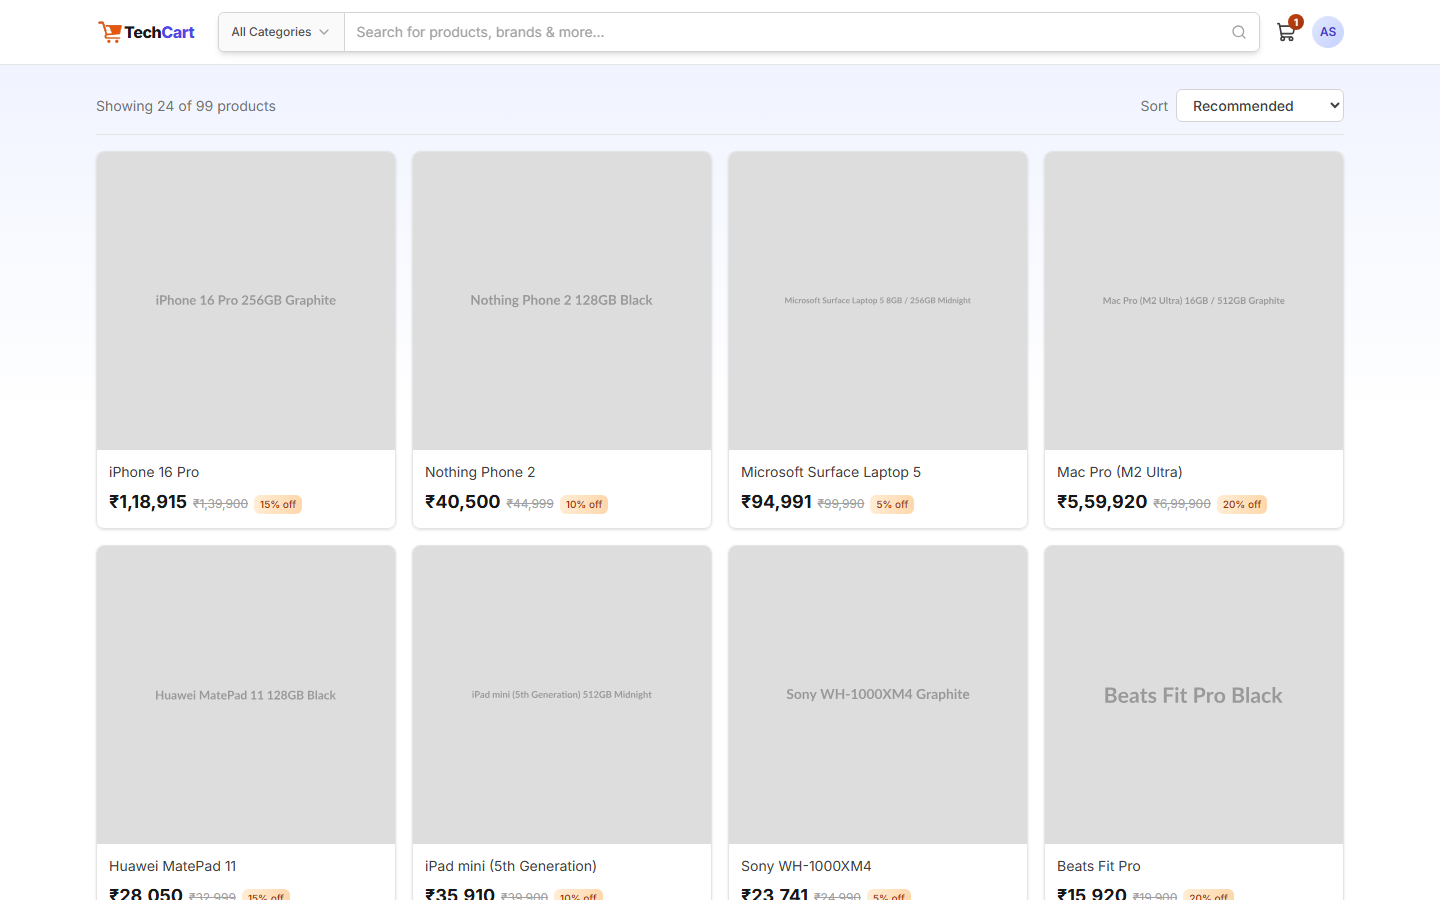
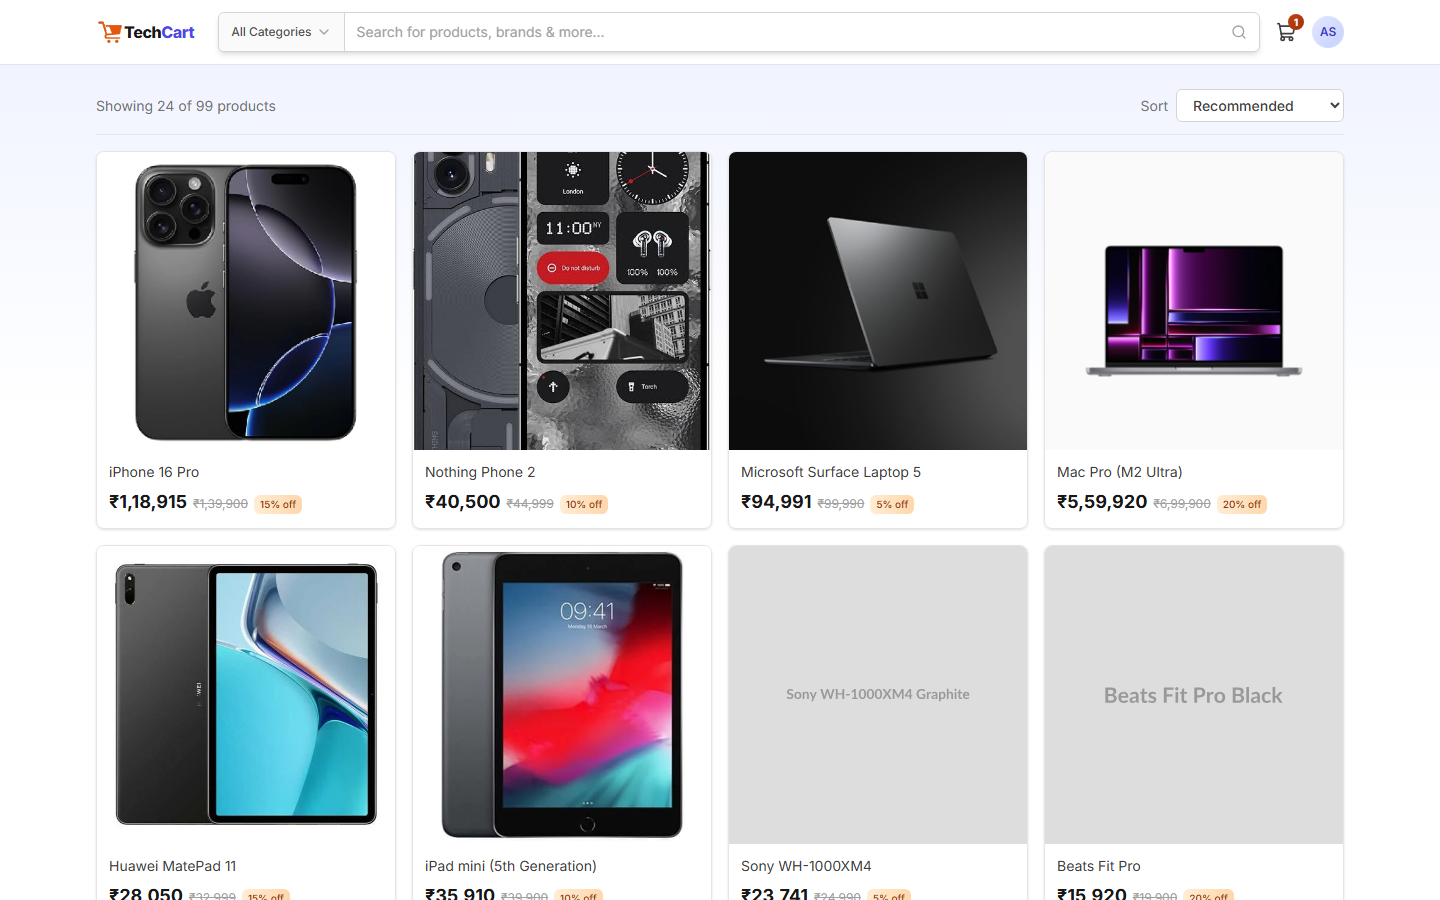
docs: recapture buyer-app manual screenshots from the live site
The buyer-app screenshots now come from https://tech-cart-buyer-app.vercel.app,
whose backend serves real R2-hosted product images and real spec data instead of
the local dataset's grey placeholders. Adds 12-specifications-accordion.png (the
PDP specs section, absent locally) back into buyer-app.md.

capture.mjs's buyer phase gains BUYER_URL / PRODUCT_SLUG / BUYER_STORAGE (a
session cache to avoid the production sign-in rate limit), a waitForListing()
helper for live latency, element-clipped shots for the variant selector and
specs accordion, and a stricter order-cleanup guard (matches the fixed test
shipping name + product + a list-row status, never a real order).

Admin-app screenshots are unchanged. Both READMEs note buyer = live / admin = local.

diff --git a/docs/user-manuals/screenshots/README.md b/docs/user-manuals/screenshots/README.md
@@ -2,17 +2,48 @@
 
 The screenshots embedded in [`../buyer-app.md`](../buyer-app.md) and
 [`../admin-app.md`](../admin-app.md) are produced by [`capture.mjs`](capture.mjs) — a
-Playwright script that drives a real Chromium against locally-running instances of all
-three services and walks every documented screen.
+Playwright script that drives a real Chromium and walks every documented screen.
+
+- The **`buyer`** phase is captured against the **deployed storefront**
+  (`https://tech-cart-buyer-app.vercel.app`) so the screenshots show the real
+  catalogue and real product images. It needs no local server.
+- The **`admin`**, **`catalog-manager`**, and **`create-flows`** phases run against a
+  **local** backend + admin-app dev server (no live admin credentials).
 
 Most screens are captured against **existing data**. The admin manual's "How to add a
 brand / category / specification / variant / product / warehouse / stock" sections
 are backed by the `create-flows` phase, which fills each create form and screenshots
 it. The script never runs a `seed:*` script.
 
-## Prerequisites
+## Prerequisites (all phases)
 
 - Node 24 (repo `.nvmrc`)
+- `@playwright/test` installed (root `devDependency`) and its browser:
+  ```
+  npm install
+  npx playwright install chromium
+  ```
+
+## Buyer phase — from the live site
+
+No local setup. Sign-in OTP codes are fixed to `123456` in every environment
+(`backend/src/lib/otp.ts`), so no real inbox is needed.
+
+```
+BUYER_URL=https://tech-cart-buyer-app.vercel.app \
+BUYER_EMAIL=buyer1@example.com \
+PRODUCT_SLUG=iphone-15 \
+node docs/user-manuals/screenshots/capture.mjs --phase=buyer
+```
+
+`PRODUCT_SLUG` must be a published product with an in-stock active variant. The phase
+signs in once, adds one item to the cart and places one order to capture the
+cart/checkout/payment/orders screens, then **cancels that order and empties the cart**
+in a cleanup step. Production rate-limits sign-in (~5 / 15 min) — aim for a single
+clean run; if a re-run 429s, wait it out.
+
+## Admin phases — prerequisites
+
 - A local MongoDB with a populated TechCart database — catalogue, at least a few
   orders, warehouses, and inventory rows. The standard local dev dataset
   (`npm run seed:all --workspace backend`) covers this.
@@ -20,13 +51,8 @@ it. The script never runs a `seed:*` script.
   catalog-manager dashboard shot — a `catalog-manager` account. `npm run seed:users`
   creates `catalog-manager@example.com` / `order-manager@example.com` with password
   `TechCart@Dev123`; `npm run seed:super-admin` creates the env-driven super-admin.
-- `@playwright/test` installed (root `devDependency`) and its browser:
-  ```
-  npm install
-  npx playwright install chromium
-  ```
 
-## 1. Point the frontends at a local backend (temporary)
+### 1. Point the frontends at a local backend (temporary)
 
 All `.env*` files are gitignored. Back them up first, then set:
 
@@ -34,51 +60,46 @@ All `.env*` files are gitignored. Back them up first, then set:
 | ---------------------- | ------------------------------------------------------- |
 | `backend/.env`         | `MONGODB_URI` → your local MongoDB                      |
 | `backend/.env`         | `RATE_LIMITING_ENABLED=false` (repeated sign-ins)       |
-| `buyer-app/.env.local` | `NEXT_PUBLIC_API_URL=http://localhost:4000`             |
 | `admin-app/.env.local` | `VITE_API_URL=http://localhost:4000` (create this file) |
 
 `backend/.env` must still carry valid `R2_*`, `RAZORPAY_*`, `GOOGLE_CLIENT_*`,
-`JWT_SECRET`, and `APP_BASE_URL` values — the backend validates them at startup. Sign-in
-OTP codes are fixed to `123456` in every environment (`backend/src/lib/otp.ts`), so no
-real inbox is needed.
+`JWT_SECRET`, and `APP_BASE_URL` values — the backend validates them at startup.
 
-## 2. Start the three servers
+### 2. Start the servers
 
 ```
 npm run dev --workspace backend      # http://localhost:4000
-npm run dev --workspace buyer-app    # http://localhost:3000
 npm run dev --workspace admin-app    # http://localhost:5173
 ```
 
-## 3. Run the capture
+### 3. Run the capture
 
 ```
-node docs/user-manuals/screenshots/capture.mjs
-# or one phase:  --phase=admin | catalog-manager | create-flows | buyer
+node docs/user-manuals/screenshots/capture.mjs --phase=admin
+node docs/user-manuals/screenshots/capture.mjs --phase=catalog-manager
+node docs/user-manuals/screenshots/capture.mjs --phase=create-flows
 ```
 
-Set `SUPER_ADMIN_EMAIL` / `SUPER_ADMIN_PASSWORD` / `BUYER_EMAIL` in the environment if
-they differ from the script defaults (`admin@techcart.com` / `superAdmin123` /
-`buyer1@example.com`). Output PNGs land in
-`docs/user-manuals/assets/{buyer-app,admin-app}/`.
+Set `SUPER_ADMIN_EMAIL` / `SUPER_ADMIN_PASSWORD` in the environment if they differ
+from the script defaults (`admin@techcart.com` / `superAdmin123`). Output PNGs land in
+`docs/user-manuals/assets/admin-app/`.
 
 The script is tolerant of catalogue data that already exists and of individual steps
 failing (each is wrapped so the run continues), so it is safe to re-run.
 
-## 4. Revert
+### 4. Revert
 
-Restore `backend/.env` and `buyer-app/.env.local` from your backups; delete
-`admin-app/.env.local`. Stop the servers.
+Restore `backend/.env` from your backup; delete `admin-app/.env.local`. Stop the
+servers.
 
 ## Notes and known gaps
 
-- **Images** — the standard dev dataset uses grey placeholder images. Real uploaded
-  images render the same way; only the picture content differs.
-- **Buyer product specifications** — the dev dataset's products carry no specification
-  values, so the storefront's PDP "Specifications" accordion is not visible and has no
-  screenshot. It is described in prose in `buyer-app.md` §6.
+- **Images** — the local dataset the admin-app screenshots use has grey placeholder
+  images. The live storefront (buyer-app screenshots) serves real product images.
 - **Razorpay** — `19-checkout-payment.png` shows the real Razorpay Checkout overlay
-  when test keys are configured; without them the step lands on its "Retry payment"
-  state instead. Either is a valid screenshot for the manual.
-- The `create-flows` phase adds a brand/category/product named "Aurora …" to the
-  database. Drop those rows afterwards if you want a clean dataset.
+  (Test Mode) when test keys are configured; without them the step lands on its
+  "Retry payment" state instead. Either is a valid screenshot for the manual.
+- **Test data** — the `buyer` phase places one order and then cancels it + empties
+  the cart; a single cancelled order is left in that buyer's history. The
+  `create-flows` phase adds an "Aurora …" brand/category/product to the local
+  database — drop those rows afterwards if you want a clean dataset.

diff --git a/docs/user-manuals/buyer-app.md b/docs/user-manuals/buyer-app.md
@@ -229,11 +229,13 @@ instead of the price and buttons.
 
 ### Specifications
 
+![Specifications accordion](assets/buyer-app/12-specifications-accordion.png)
+
 Below the buy box, a **Specifications** section lists the product's attributes in
-groups (for example _Display_, _Battery_). On a wide screen every group is open and
-you can collapse any of them; on a narrow screen they start closed and only one opens
-at a time. Each value shows its unit where one is defined (e.g. _6.1 inch_). The
-section is hidden for a product that has no specification values.
+groups (for example _Technical Specifications_, _Display_). On a wide screen every
+group is open and you can collapse any of them; on a narrow screen they start closed
+and only one opens at a time. Each value shows its unit where one is defined (e.g.
+_6.3 inch_). The section is hidden for a product that has no specification values.
 
 ---
 

diff --git a/docs/user-manuals/README.md b/docs/user-manuals/README.md
@@ -22,7 +22,8 @@ script in [`screenshots/`](screenshots/) — see
 [`screenshots/README.md`](screenshots/README.md) for the environment setup and run
 steps.
 
-They were captured against a local instance with the standard development dataset.
-Product, brand, and category **images are grey placeholders** in that dataset — the
-storefront and console render real uploaded images the same way once a catalogue has
-them.
+The **buyer-app** screenshots are captured from the live storefront
+(`https://tech-cart-buyer-app.vercel.app`) and show the real catalogue and real
+product images. The **admin-app** screenshots are captured from a local instance
+whose development dataset uses grey placeholder images — the console renders real
+uploaded images the same way once a catalogue has them.
